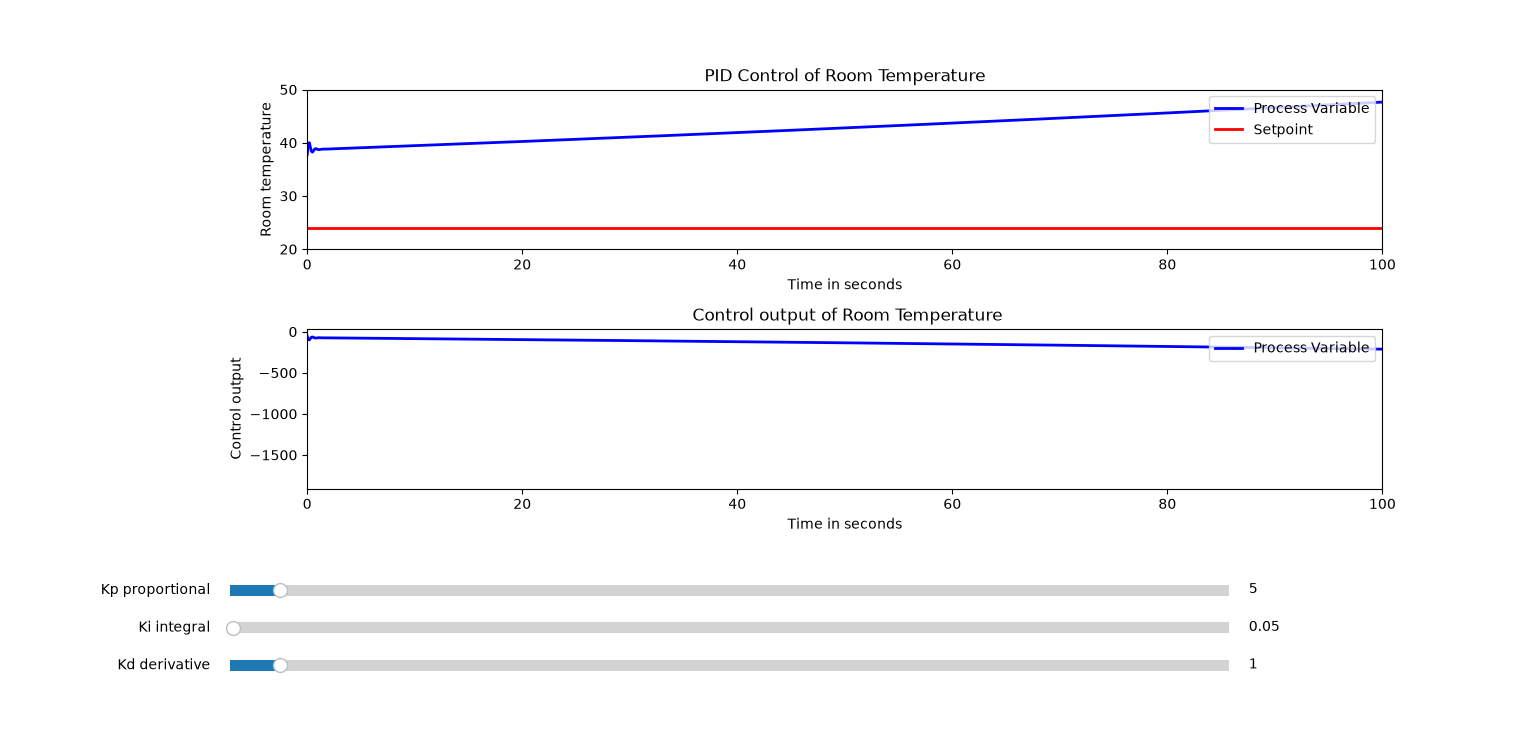
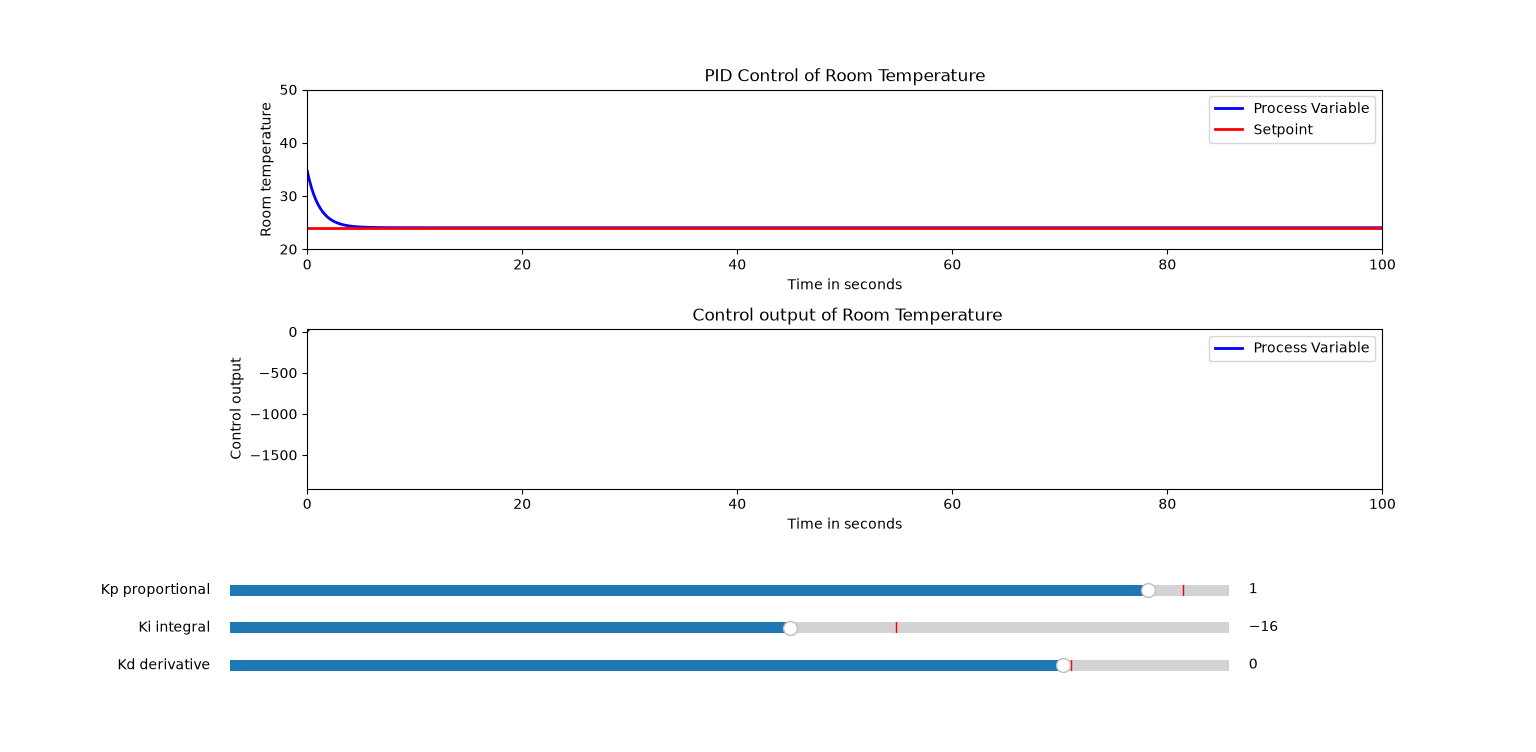
New changes done

diff --git a/Task1/code.py b/Task1/code.py
@@ -77,9 +77,9 @@ ax1_Kd=plt.axes([0.15,0.10,0.65,0.03])
 
 # implementing the slider 
                 #(axis,labelling,start value,end value,initial value, scale)
-slider_Kp=Slider(ax1_Kp,'Kp proportional',0.0,100.0, valinit=initial_Kp,valstep=0.001)
-slider_Ki=Slider(ax1_Ki,'Ki integral',0.0,20.0, valinit=initial_Ki,valstep=0.001)
-slider_Kd=Slider(ax1_Kd,'Kd derivative',0.0,20.0, valinit=initial_Kd,valstep=0.001)
+slider_Kp=Slider(ax1_Kp,'Kp proportional',-100,10.0, valinit=initial_Kp,valstep=0.001)
+slider_Ki=Slider(ax1_Ki,'Ki integral',-100,50.0, valinit=initial_Ki,valstep=0.001)
+slider_Kd=Slider(ax1_Kd,'Kd derivative',-100,20.0, valinit=initial_Kd,valstep=0.001)
 
 #for updating values in slider, we use this function
 def update(val):

diff --git a/Task1/Readme.md b/Task1/Readme.md
@@ -15,3 +15,5 @@ Tasks-
 
 Unfortunately in this question, I could not find any favourable value of Kp,Ki and Kd which can reach the setpoint value, however I have attached the graphs at the given values.
 
+
+As informed, i have now updated the code and graph , now i am getting the proper graph at kp=1, ki=-16 and kd=0.
